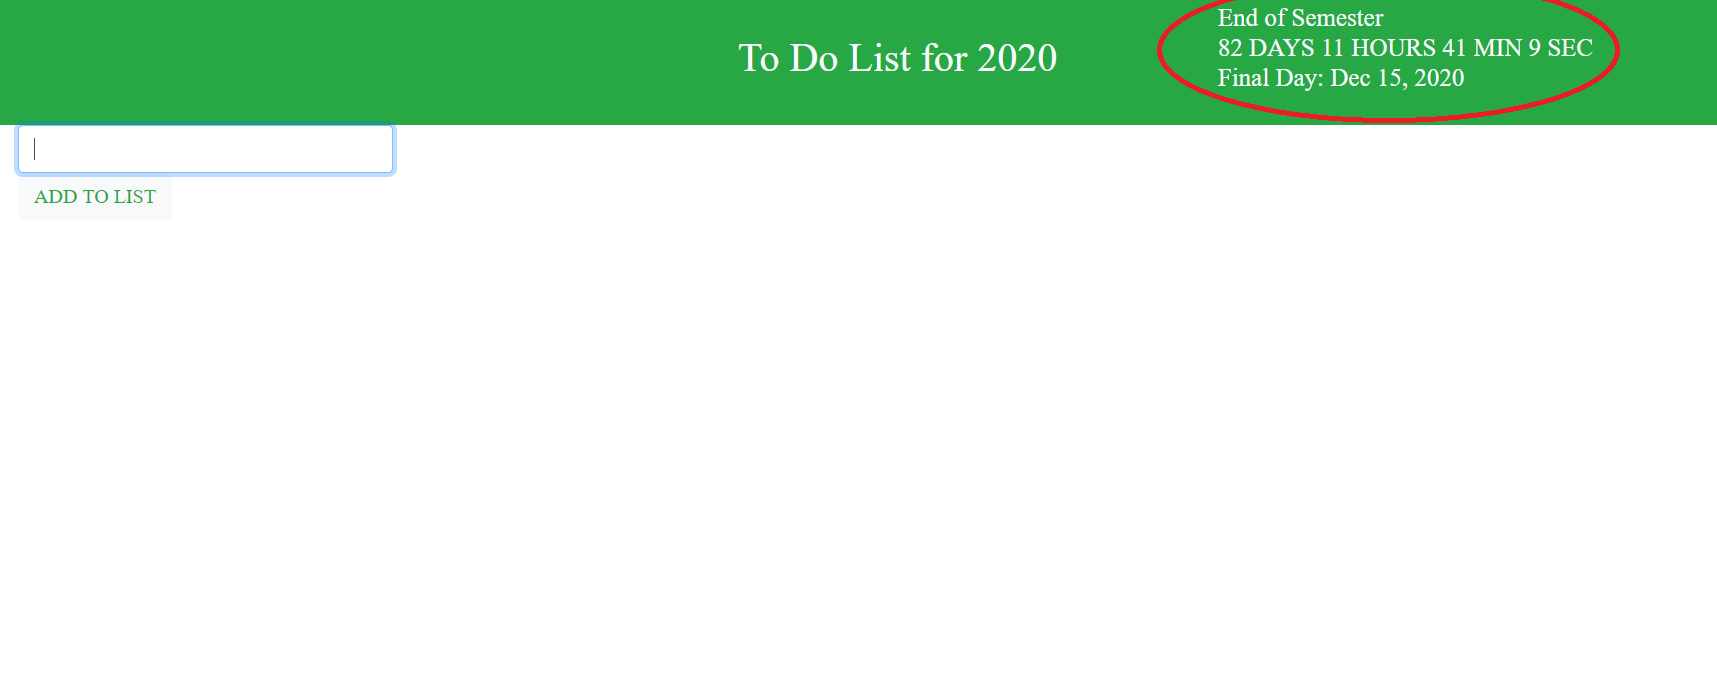
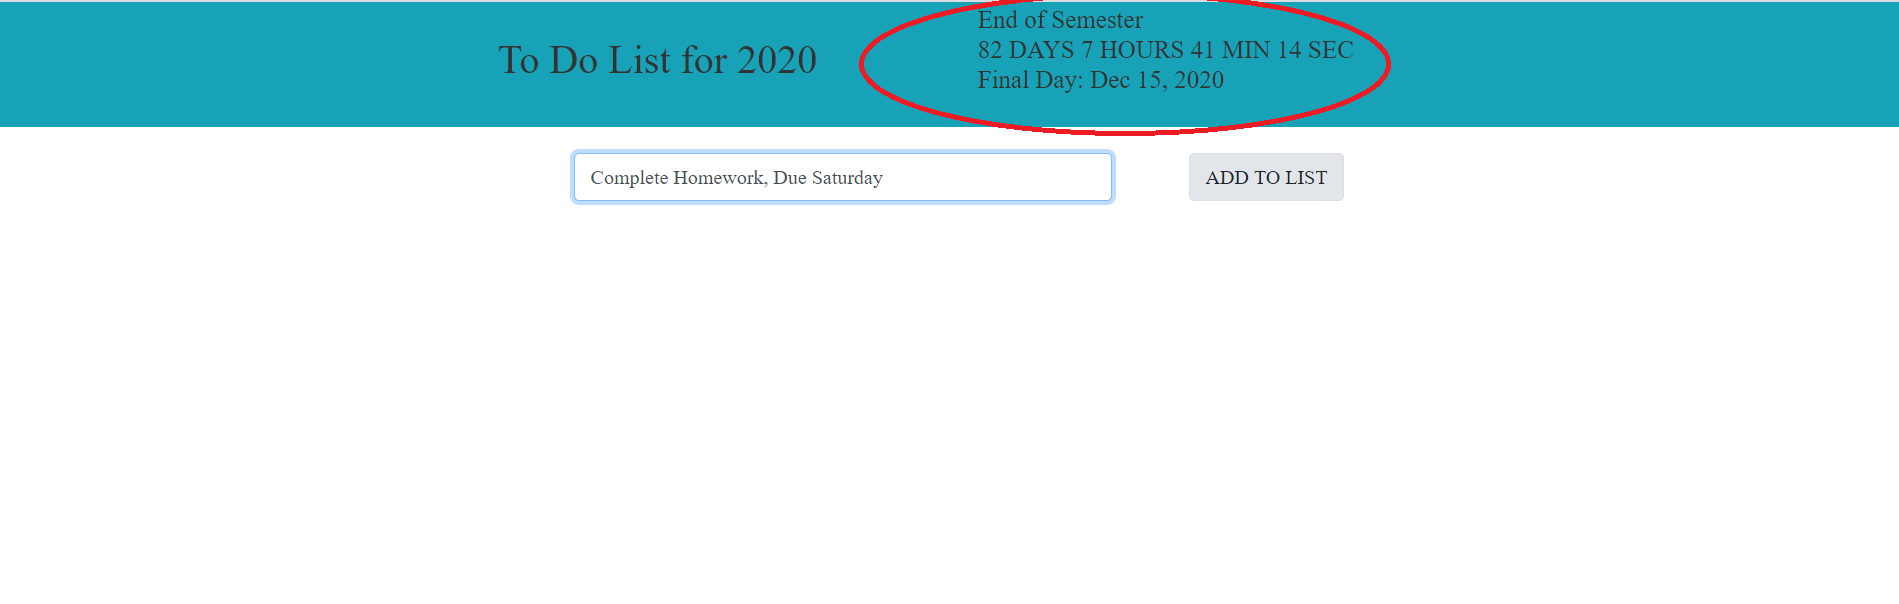
Task complete

Changed region(s): [[0.0, 0.0, 1.0, 0.3576]]

diff --git a/Web/Web ICP 5/Source/ToDoICP/src/app/app.component.html b/Web/Web ICP 5/Source/ToDoICP/src/app/app.component.html
@@ -10,34 +10,58 @@
 
 <!--here is where the header is completed. Wanted it to stand out so it is getting green boarder-->
 <div class="container-fluid"><!--bootstrap. allows the container to go across screen no matter screen size-->
-  <div class="row bg-success justify-content-center
+  <div class="row bg-info justify-content-center
             align-items-center" style="height:100px">
-    <div class="col-3"></div>
-    <div class="col-3 text-light h2"><!--formatting box around title-->
+
+    <div class="col-3 text-black h2"><!--formatting box around title-->
       To Do List for 2020
     </div>
 <!-----------------------------------COUNT DOWN TIMER ADDED HERE------------------------------------------->
-    <div class="col-3 text-light h5"><!--formatting box around title-->
+    <div class="col-3 text-black h5"><!--formatting box around title-->
       <p>End of Semester<br>{{demo}}<br>Final Day: {{countDownDate | date}}</p>
     </div>
   </div>
   <!----------------------------------TO DO LIST ADDED HERE------------------------------------------------->
-    <div class="todo-list"><!--using your already created classes-->
-      <div class="todo-list__head">
-        <input [(ngModel)]="newT" type="text" value="" class=" col-7 form-control" style="width:300px;">
-        <div class="col-1"></div>
-        <button (click)="submitNewItem(newT)"  class="btn btn-light text-success">
-          ADD TO LIST
-        </button>
-      </div>
-<!------------------------------------BUTTONS ADDED HERE----------------------------------------------------->
-      <ul class="todo-list__items">
-        <li *ngFor="let todo of items; let i = index" [attr.data-index]="i" (click)="completeItem(todo)" [class.completed]="todo.complete">
-          <input (click)="deleteItem(i)" type="button" value="REMOVE FROM LIST" class="col-2 btn btn-danger">
-          <input (click)="completeItem(todo)" type ="button" value ="MARK COMPLETE"class ="col-2 btn btn-success">
-        </li>
-      </ul>
+  <!--Division for taking input from user -->
+  <div class="row mt-1" style="height:80px;"><!--bootstrap used a lot for formatting-->
+    <div class="col-3 d-none col-md-3 d-md-block"></div>
+    <div class="col-12 col-md-6 bg-white d-flex
+                    justify-content-center align-items-center
+                    text-black h4">
+
+      <input [(ngModel)]="newT" type="text"
+             value="" class="col-7 form-control"
+             style="width:300px;">
+
+      <div class="col-1"></div>
+
+      <button (click)="submitNewItem()" class="btn btn-light text-black"><!--submits the item user input into array-->
+        ADD TO LIST
+      </button>
     </div>
+
+    <div class="col-3 col-md-3 d-md-block"></div>
   </div>
-</body>
-</html>
+
+  <!--Tasks added repeated divisions-->
+  <div *ngFor="let x of items; let index = index;"
+       class="row mt-1" style="height:100px;"><!--helps to iterate through the array created-->
+
+    <div class="col-3 col-md-3 d-md-block"></div>
+
+    <div class="col-12 col-md-6 bg-white d-flex
+                    justify-content-center align-items-center
+                    text-black h3"><!--more formatting-->
+
+      <div class="col-9 text-black h3">{{x}}</div><!--displays the items in the array so it appears on web page-->
+
+      <input (click)="deleteItem(index)" type="button"
+             value="Delete" class="col-2 btn btn-danger"><!--deletes item when delete button is clicked-->
+      <input (click) = "completeItem(index)" type = "button"
+              value= "Completed" class = "col-2 btn btn-success"><!--strikes through item when complete button is clicked-->
+    </div>
+
+
+  </div>
+</div>
+

diff --git a/Web/Web ICP 5/Source/ToDoICP/src/app/app.component.ts b/Web/Web ICP 5/Source/ToDoICP/src/app/app.component.ts
@@ -1,5 +1,7 @@
 import { Component } from '@angular/core';
 import index from '@angular/cli';
+import {$} from 'protractor';
+import {style} from '@angular/animations';
 
 @Component({
   selector: 'app-root',
@@ -9,46 +11,41 @@ import index from '@angular/cli';
 export class AppComponent {
 
   // define list of items
-  items = [];
-  public newT;
+  public items = []; // array to hold to do items
+  public newT; // public variable for access as needed
   countDownDate = new Date('Dec 15 2020 23:59:59').getTime(); /*used for countdown timer*/
-  demo: any;
+  demo: any; // USED FOR COUNTDOWN
 
-  temp = setInterval(() => {
-    var today = new Date().getTime();
-    var future = this.countDownDate - today; // calculates how much time is left before set date
-    var days = Math.floor(future / (1000 * 60 * 60 * 24)); // will calculate the number of days.
-    var hours = Math.floor((future % (1000 * 60 * 60 * 24)) / (1000 * 60 * 60) ); // will calculate the number of hours.
-    var minutes = Math.floor((future % (1000 * 60 * 60 )) / (1000 * 60 )); // will calculate the number of minutes.
-    var seconds = Math.floor((future % (1000 * 60 )) / (1000)); // will calculate number of seconds
+  temp = setInterval(() => { // calculates days,hours, minutes, etc.
+    let today = new Date().getTime();
+    let future = this.countDownDate - today; // calculates how much time is left before set date
+    let days = Math.floor(future / (1000 * 60 * 60 * 24)); // will calculate the number of days.
+    let hours = Math.floor((future % (1000 * 60 * 60 * 24)) / (1000 * 60 * 60) ); // will calculate the number of hours.
+    let minutes = Math.floor((future % (1000 * 60 * 60 )) / (1000 * 60 )); // will calculate the number of minutes.
+    let seconds = Math.floor((future % (1000 * 60 )) / (1000)); // will calculate number of seconds
 
-    this.demo = days + ' DAYS ' + hours + ' HOURS ' + minutes + ' MIN ' + seconds + ' SEC';
+    this.demo = days + ' DAYS ' + hours + ' HOURS ' + minutes + ' MIN ' + seconds + ' SEC'; // used for display in html
 
   });
 
   // Write code to push new item
-  submitNewItem(newT) {// creates a new item with bool var set to false. Indicates not complete
-    if (newT !== '') {
-      this.items.push({val: this.newT, complete: false}); // adds to list and marks complete as false
-      /*this.newT = ''; /*sets newT back to a blank character for future use */
+  submitNewItem() {// creates a new item with bool var set to false. Indicates not complete
+    if (this.newT === '') {
+    } else {
+      this.items.push(this.newT); // pushes user input into array
+      this.newT = ''; // used for user input. Resets it back to blank
     }
   }
 
   // Write code to complete item
-  completeItem(td) {// indicates items are complete by changing bool to true
-    for (let i = 0; i < this.items.length; i++) {
-      if (this.items[i] === td) {
-        this.items[i].complete = true; // setting the complete var to true.
-      }
-    }
+  completeItem(i) {
+    // creates variable that retrieves element for where the to do list item appears
+    let task = document.getElementsByClassName('col-9 text-black h3')as HTMLCollectionOf<HTMLElement>;
+    task[i].style.setProperty('text-decoration', 'line-through'); // strikes through the word
   }
 
   // Write code to delete item
   deleteItem(i) { // removes item from array
     this.items.splice(i, 1); /*specifies index to change the array.This will delete the item*/
   }
-}
-
-function myFunction() {
-  document.getElementById('demo').innerHTML = this.newT;
 }

diff --git a/Web/Web ICP 5/Source/ToDoICP/src/styles.css b/Web/Web ICP 5/Source/ToDoICP/src/styles.css
@@ -1,2 +1,6 @@
 /* You can add global styles to this file, and also import other style files */
 @import '~bootstrap/dist/css/bootstrap.css';
+.done-true {
+  text-decoration: line-through;
+  color: grey;
+}
